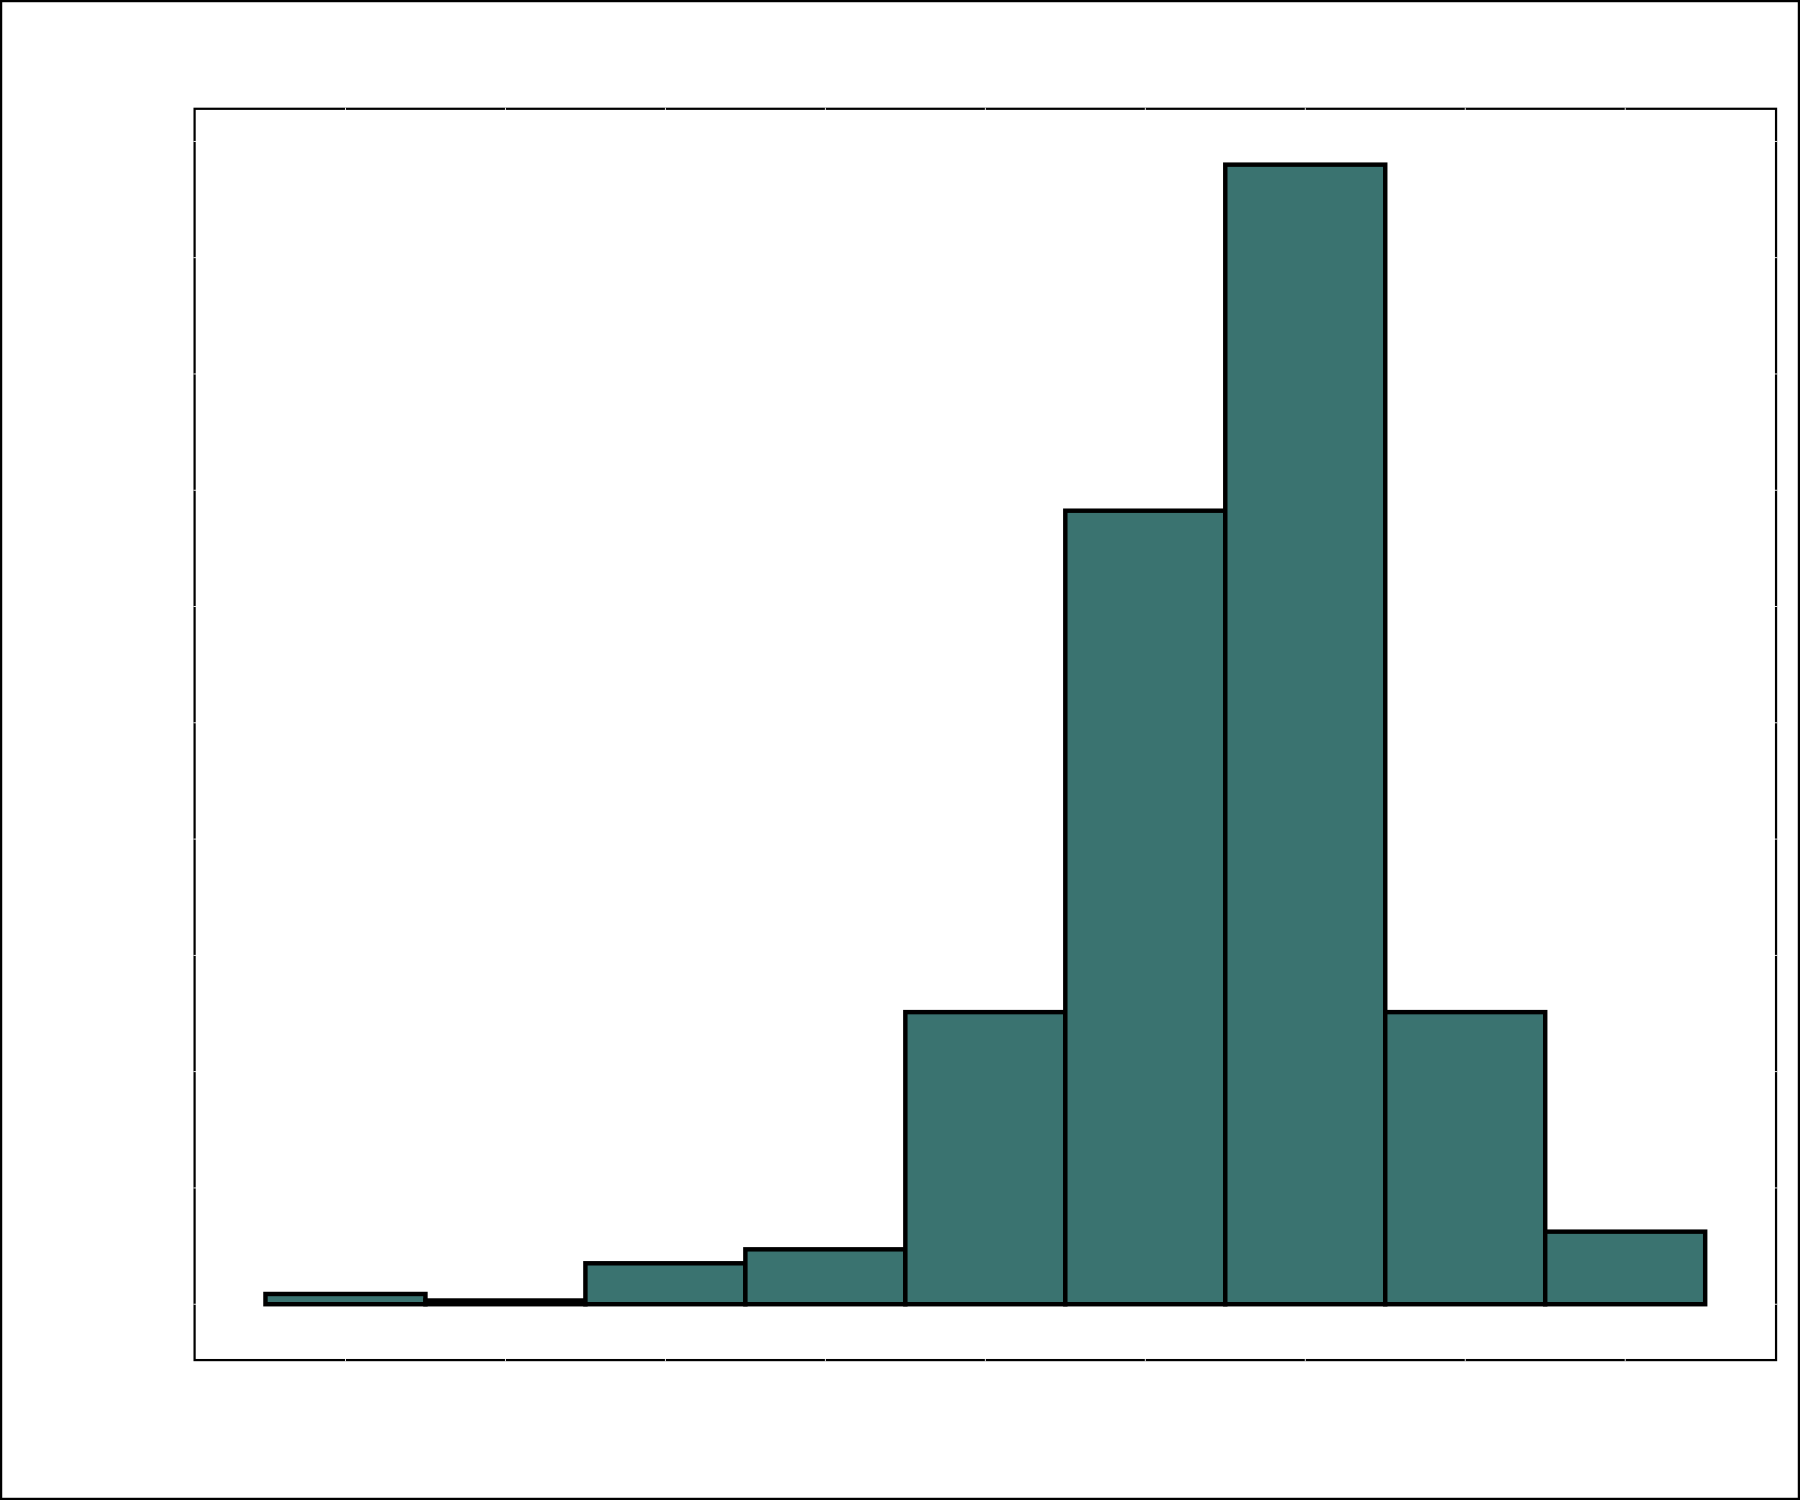
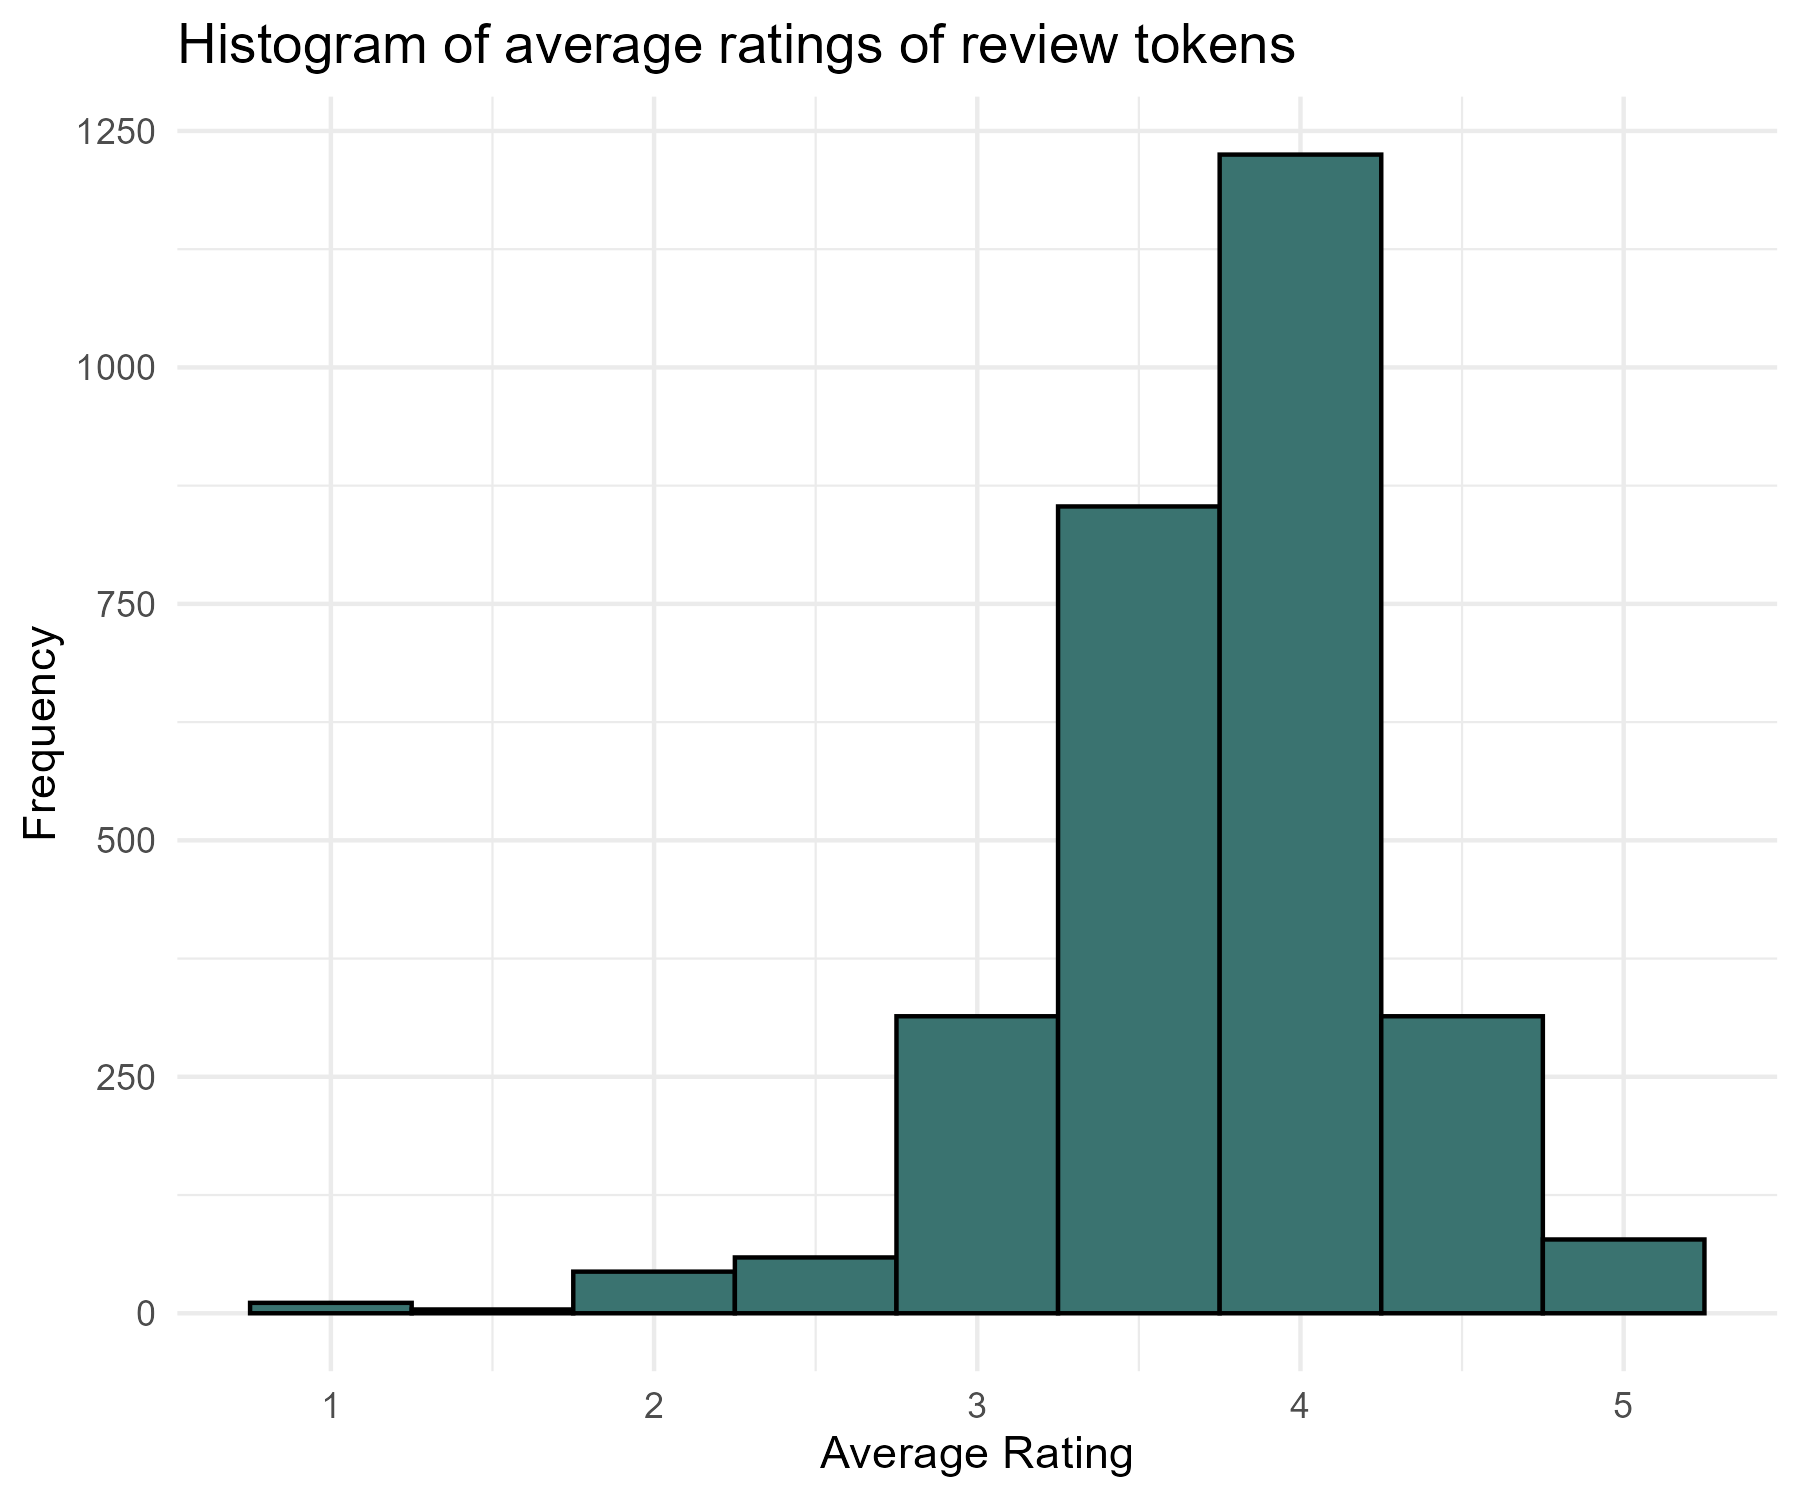
Knit

diff --git a/Readme_23761067.html b/Readme_23761067.html
@@ -419,36 +419,6 @@ set.seed(777)
 # Set theme &amp; colour palette 
 palette &lt;- c(&quot;#4d8049&quot;, &quot;#3A7370&quot;, &quot;#FFC57B&quot;, &quot;#FB9072&quot;, &quot;#CE677A&quot;, &quot;#9c0315&quot;)
 
-my_theme &lt;- theme(
-  # Title, subtitle, and caption
-  plot.title = element_text(colour = &quot;white&quot;, size = 16, family = &quot;arial&quot;, hjust = 0.5,face = &quot;bold&quot;),
-  plot.subtitle = element_text(colour = &quot;white&quot;, size = 14, family = &quot;arial&quot;),
-  plot.caption = element_text(colour = &quot;white&quot;, size = 10, family = &quot;arial&quot;),
-  
-  # Background and grid
-  panel.background = element_rect(fill = &quot;white&quot;, colour = &quot;black&quot;),
-  plot.background = element_rect(fill = &quot;white&quot;, color = &quot;black&quot;),
-  panel.grid.major = element_line(color = &quot;white&quot;, size = 0.1),
-  panel.grid.minor = element_line(color = &quot;white&quot;, size = 0.1),
-  
-  # Axis titles and labels
-  axis.title.x = element_text(colour = &quot;white&quot;, size = 12,family = &quot;arial&quot;, hjust = 0.5,face = &quot;bold&quot;),
-  axis.title.y = element_text(colour = &quot;white&quot;, size = 12,family = &quot;arial&quot;, hjust = 0.5,face = &quot;bold&quot;),
-  axis.text.y = element_text(colour = &quot;white&quot;, size = 10,family = &quot;arial&quot;),
-  axis.text.x = element_text(colour = &quot;white&quot;, size = 10,family = &quot;arial&quot;),
-  
-  # Legend 
-  legend.position = &quot;right&quot;,
-  legend.text = element_text(colour = &quot;white&quot;,size = 12, family = &quot;arial&quot;),
-  legend.title = element_text(colour = &quot;white&quot;,size = 12, family = &quot;arial&quot;, hjust = 3,face = &quot;bold&quot;),
-  legend.key = element_rect(fill = &quot;black&quot;, color = &quot;black&quot;),
-  legend.background = element_rect(fill = &quot;black&quot;),
-  
-  # Other
-  axis.ticks = element_blank(),
-  strip.text = element_text(colour = &quot;white&quot;, size = 12, family = &quot;arial&quot;, vjust = 1, hjust = 0.5)
-)
-
 # Import data
 data &lt;- readRDS(&quot;data/calitzdorp.rds&quot;)</code></pre>
 </div>
@@ -1340,12 +1310,12 @@ tokens</h4>
 <pre class="r"><code># Plot histogram
 fig1 &lt;- ggplot(words_ratings_counts, aes(x = ave_rating)) +
   geom_histogram(aes(y = ..count..), binwidth =0.5, bins = 30, fill = &quot;#3A7370&quot;, color = &quot;black&quot;, alpha = 1) +
-  my_theme +
+  theme_minimal() +
   labs(title = &quot;Histogram of average ratings of review tokens&quot;,
        x = &quot;Average Rating&quot;, 
        y = &quot;Frequency&quot;) 
 fig1</code></pre>
[2 lines of base64/hex data omitted]
 <pre class="r"><code>ggsave(&quot;writeup/fig1.png&quot;, plot = fig1, width = 6, height = 5, dpi = 300)</code></pre>
 </div>
 </div>
